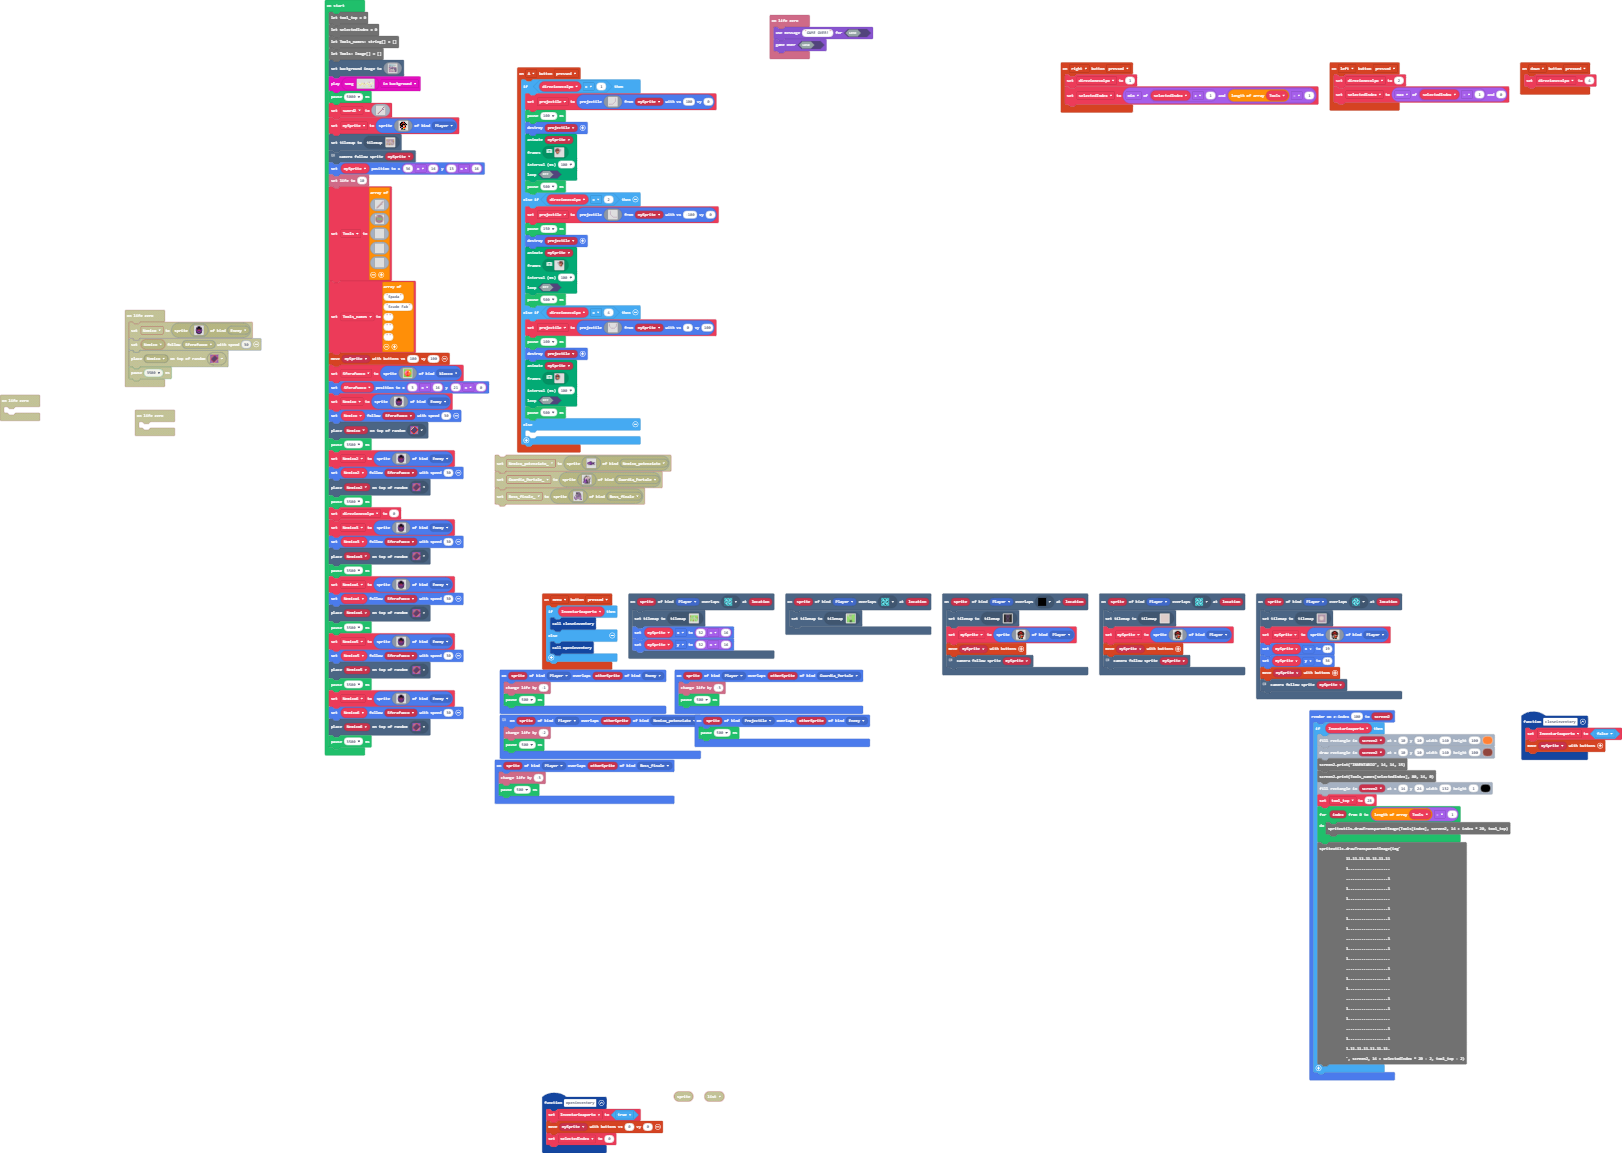
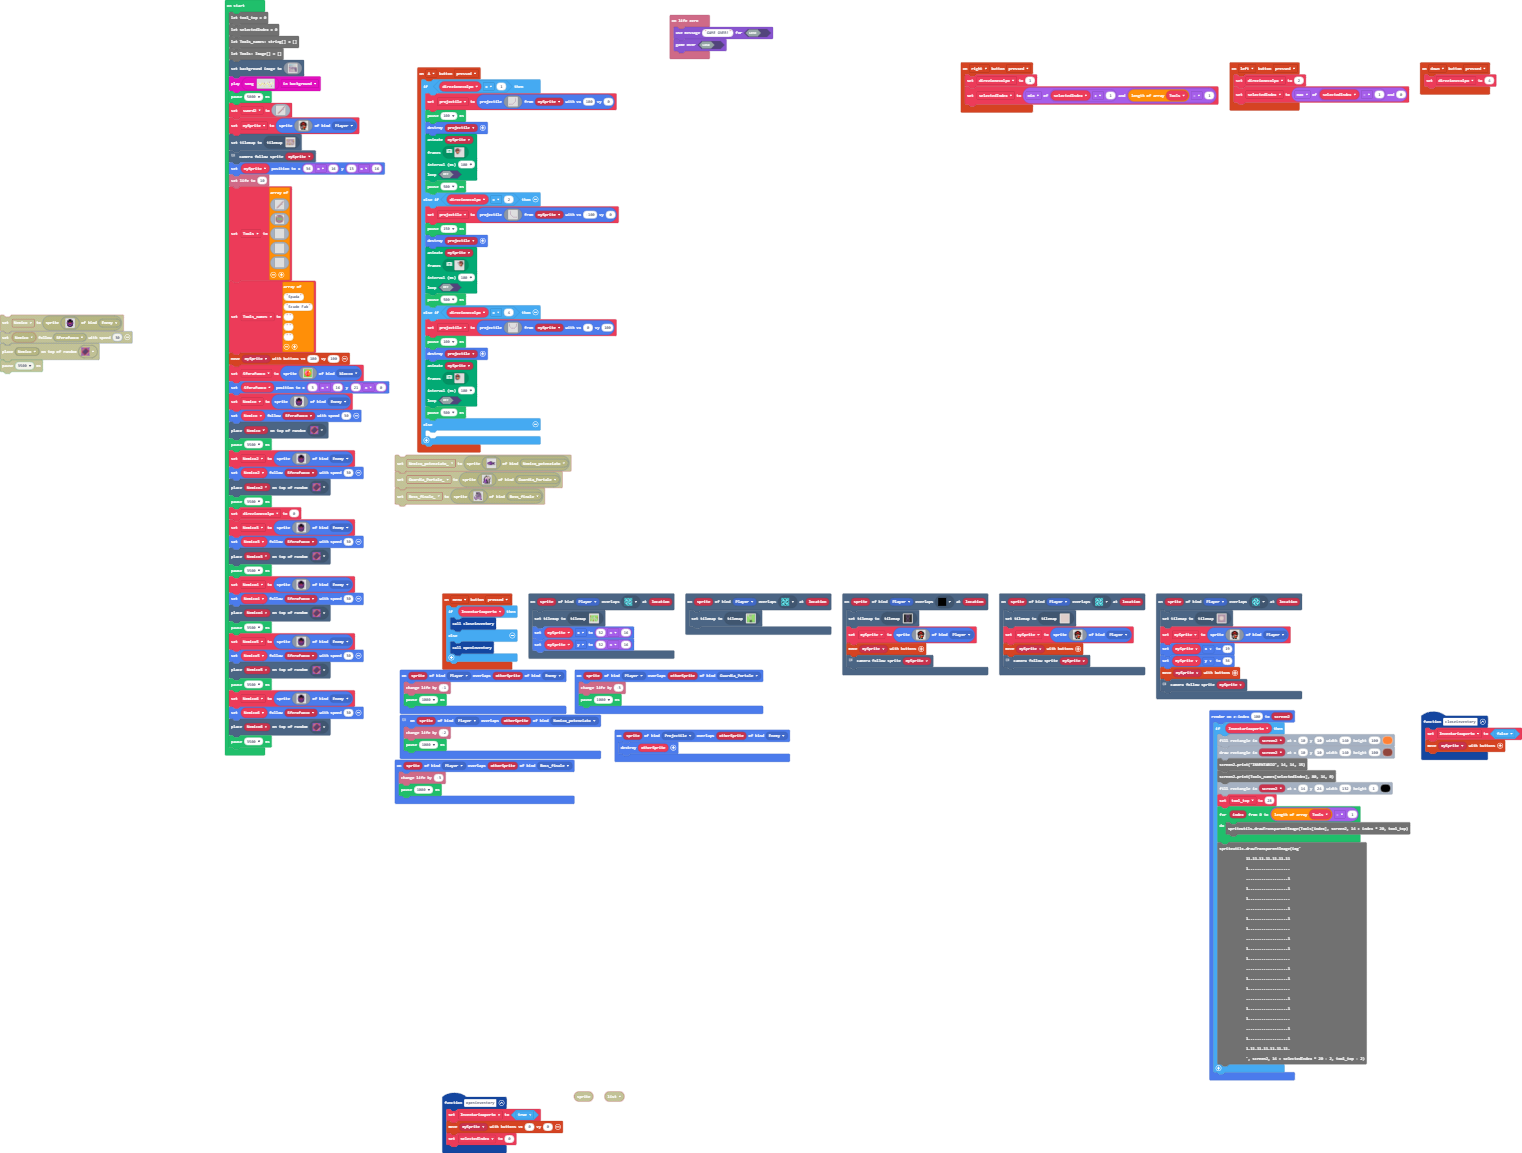
sistemato attacco mostri iniziali

Changed region(s): [[0.0, 0.0, 0.9882, 0.9367], [0.6176, 0.0312, 0.9882, 0.0937], [0.2779, 0.9367, 0.4632, 1.0]]

diff --git a/main.ts b/main.ts
@@ -30,13 +30,13 @@ scene.onOverlapTile(SpriteKind.Player, assets.tile`myTile0`, function (sprite, l
 })
 sprites.onOverlap(SpriteKind.Player, SpriteKind.Boss_finale, function (sprite, otherSprite) {
     info.changeLifeBy(-3)
-    pause(500)
+    pause(1000)
 })
 // prova 2
 // a
 sprites.onOverlap(SpriteKind.Player, SpriteKind.Nemico_potenziato, function (sprite, otherSprite) {
     info.changeLifeBy(-2)
-    pause(500)
+    pause(1000)
 })
 controller.A.onEvent(ControllerButtonEvent.Pressed, function () {
     if (direzionecolpo == 1) {
@@ -487,7 +487,7 @@ controller.right.onEvent(ControllerButtonEvent.Pressed, function () {
 })
 sprites.onOverlap(SpriteKind.Player, SpriteKind.Guardia_Portale, function (sprite, otherSprite) {
     info.changeLifeBy(-3)
-    pause(500)
+    pause(1000)
 })
 scene.onOverlapTile(SpriteKind.Player, assets.tile`tel mappa centrale`, function (sprite, location) {
     tiles.setCurrentTilemap(tilemap`level2`)
@@ -573,7 +573,7 @@ scene.onOverlapTile(SpriteKind.Player, assets.tile`myTile10`, function (sprite, 
     scene.cameraFollowSprite(mySprite)
 })
 sprites.onOverlap(SpriteKind.Projectile, SpriteKind.Enemy, function (sprite, otherSprite) {
-    pause(500)
+    sprites.destroy(otherSprite)
 })
 scene.onOverlapTile(SpriteKind.Player, sprites.dungeon.collectibleInsignia, function (sprite, location) {
     tiles.setCurrentTilemap(tilemap`Castello`)
@@ -601,7 +601,7 @@ scene.onOverlapTile(SpriteKind.Player, sprites.dungeon.collectibleInsignia, func
 })
 sprites.onOverlap(SpriteKind.Player, SpriteKind.Enemy, function (sprite, otherSprite) {
     info.changeLifeBy(-1)
-    pause(500)
+    pause(1000)
 })
 let Inventarioaperto = false
 let projectile: Sprite = null
